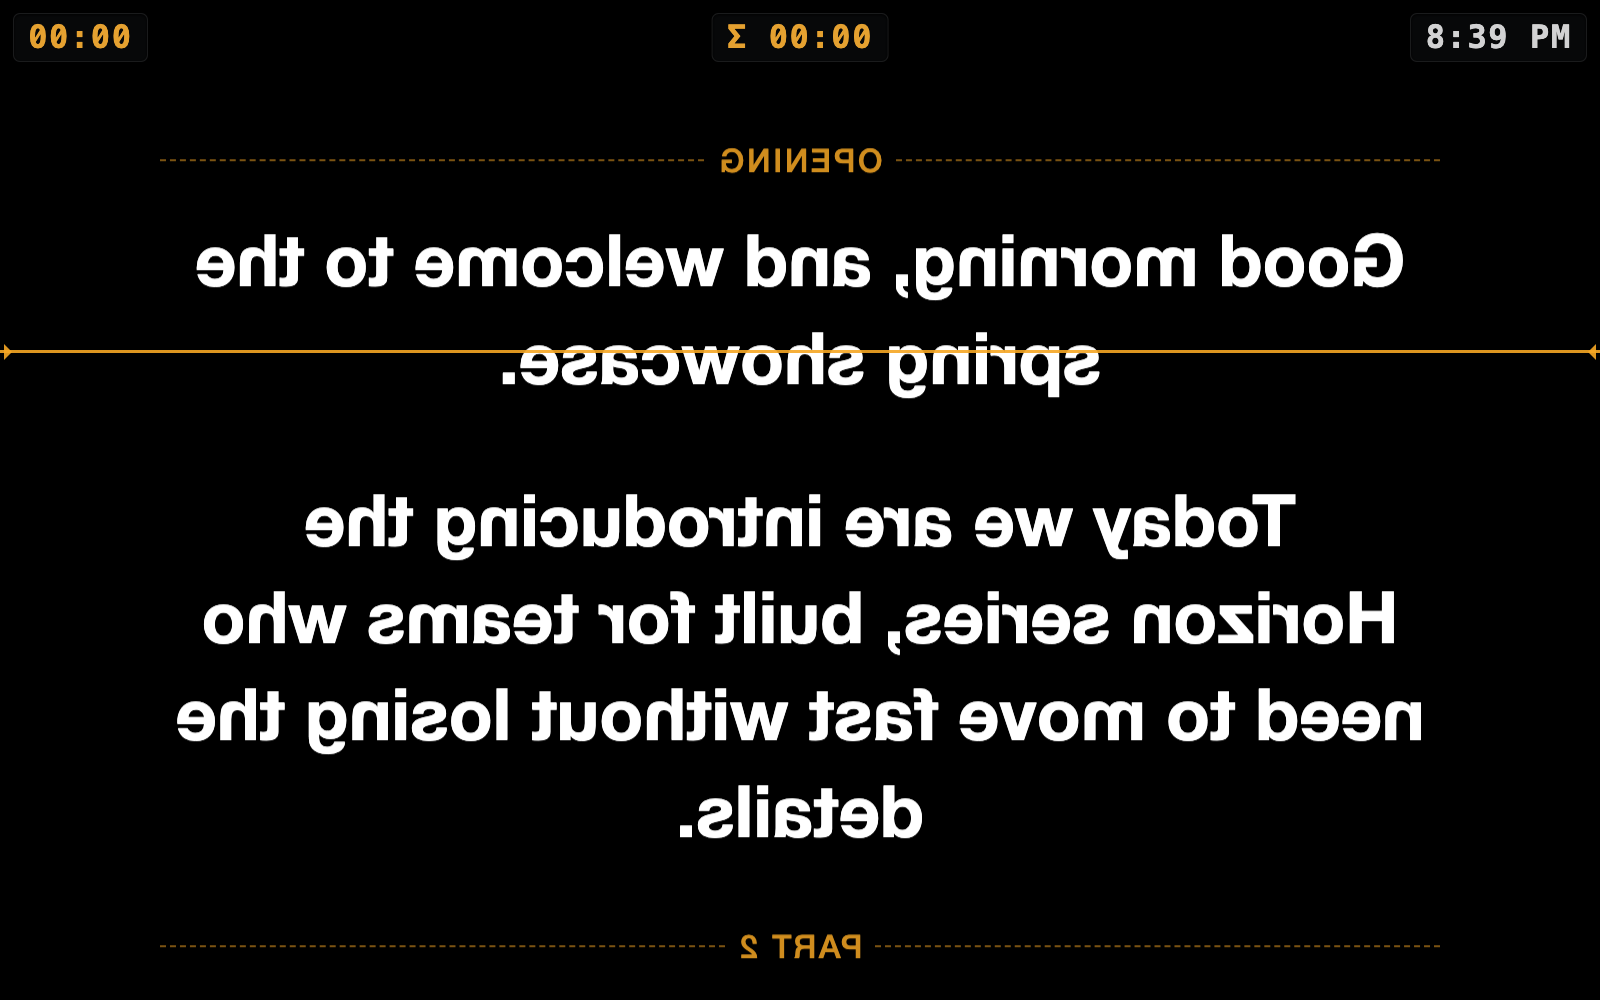
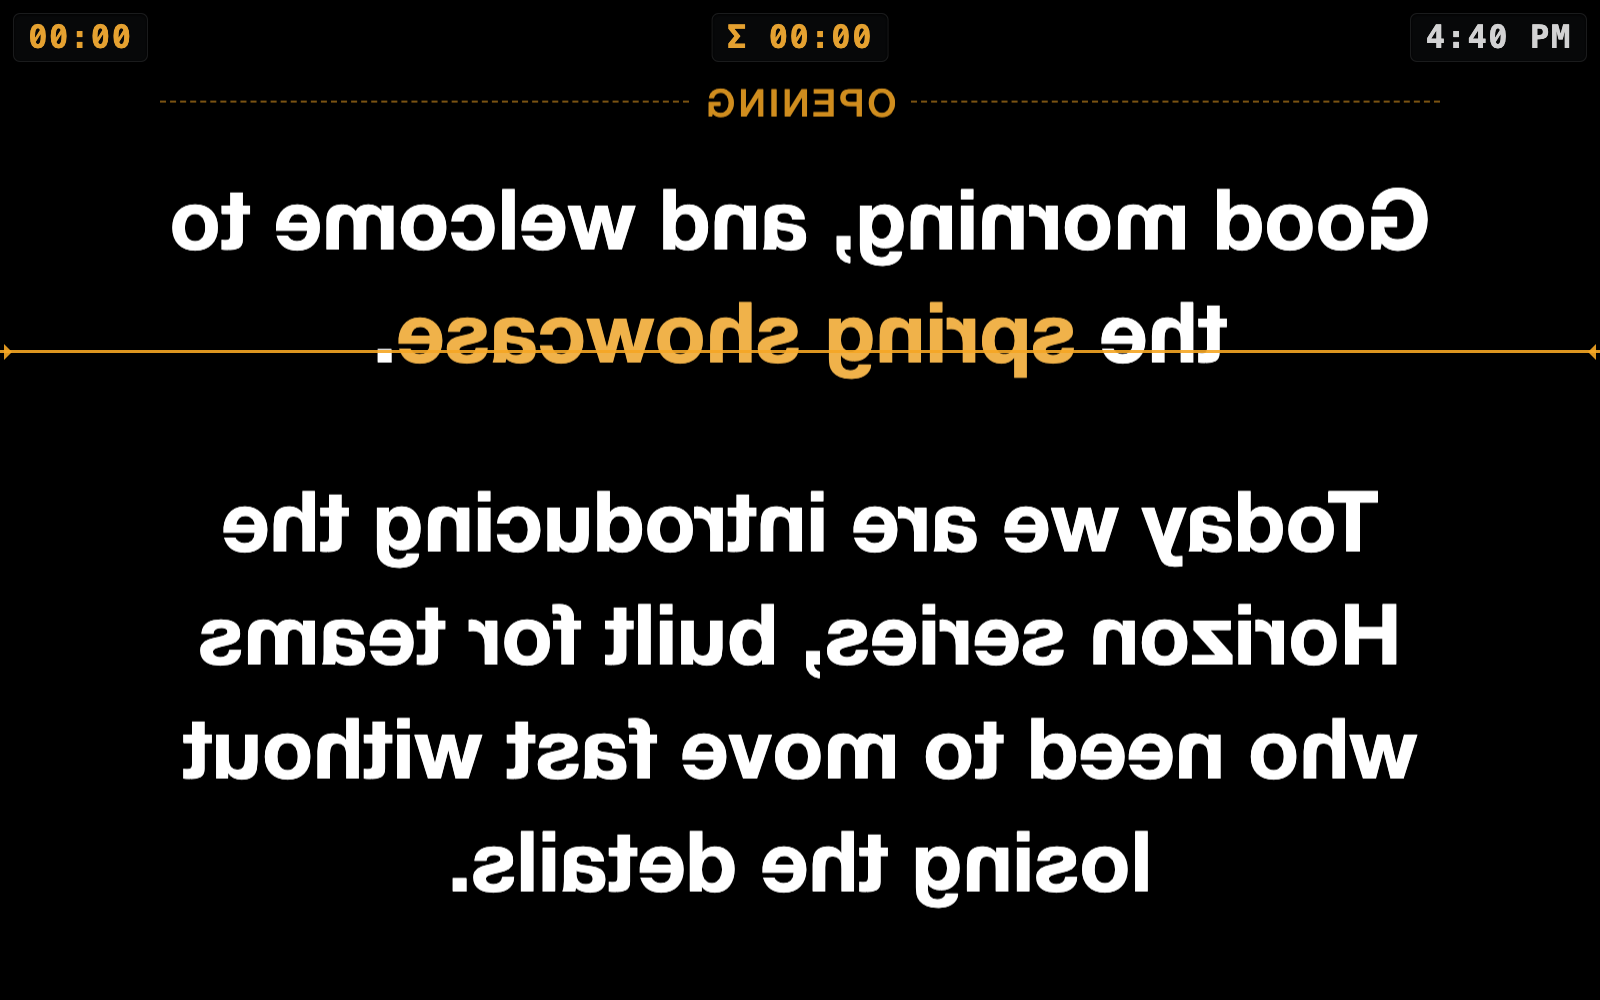
Colour coding: copy, support answer, new screenshots

diff --git a/support.html b/support.html
@@ -33,6 +33,7 @@
   <p><strong>Text is backwards on my monitor but right in the preview.</strong> That is the mirror setting for your glass. Turn Mirror horizontal off in the Glass tab if you are reading directly from the monitor.</p>
   <p><strong>Keys do nothing.</strong> Click outside the script editor first; keys are ignored while you are typing in it. <kbd>Space</kbd> plays and pauses.</p>
   <p><strong>The phone can't open the remote.</strong> The phone and the computer must be on the same Wi-Fi. If the Wi-Fi blocks devices from seeing each other (common in hotels), share your phone's hotspot to the computer instead.</p>
+  <p><strong>How do I colour words?</strong> Select them in the script and click a colour above the page. The app writes a tag like <code>{red|slow down}</code> into the text; you can type one yourself. Colours: amber, red, green, blue, grey, and bold. Plain removes the tag.</p>
   <p><strong>A PDF imported empty.</strong> The PDF has no text layer (it is a scan). Run it through OCR first, or paste the text.</p>
 
   <h2>Refunds</h2>

diff --git a/index.html b/index.html
@@ -170,7 +170,7 @@
       <ul class="list">
         <li><i>01</i><div><b>Follow the prompter.</b> The paragraph being read is highlighted on the page as it goes, so you can fix a line without losing the place.</div></li>
         <li><i>02</i><div><b>Prompter to cursor.</b> Click anywhere in the script, press ⌘J, and the glass jumps there. Find any word with ⌘F.</div></li>
-        <li><i>03</i><div><b>Markers.</b> A line starting with <code>//</code> becomes a divider you can jump between from the keyboard, the clicker, or the phone.</div></li>
+        <li><i>03</i><div><b>Markers and colour.</b> A line starting with <code>//</code> becomes a divider you can jump to. Select words and click a colour to make them amber, red, green, or blue on the glass.</div></li>
         <li><i>04</i><div><b>Import anything.</b> Text, Markdown, Word, and PDF, dropped on the window or opened from the Dock. Autosaves as you type.</div></li>
       </ul>
     </div>
